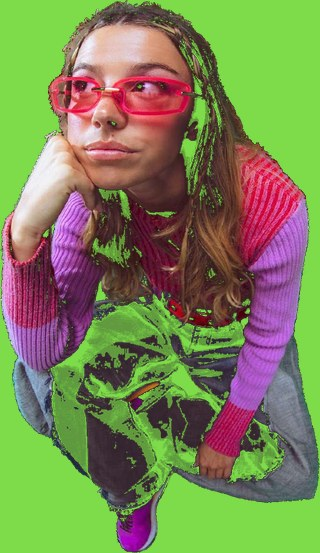
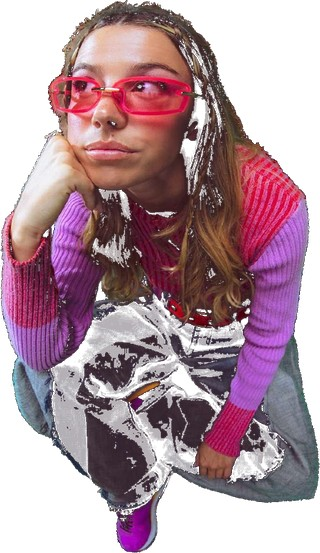
Use a white background for the braindump center photo
The green frame was showing through around the cutout. The center slot is now a white matte so a white-bg leopard photo sits cleanly.

diff --git a/static/site.css b/static/site.css
@@ -877,7 +877,7 @@ body:hover .cursor-glow { opacity: 1; }
   position: relative;
   justify-self: center;
   width: min(560px, 100%);
-  background: #7edc4a;
+  background: #ffffff;
   padding: 0.7rem 0.7rem 1.6rem;
   transform: rotate(2deg);
   box-shadow: 10px 14px 0 rgba(26, 8, 16, 0.18);
@@ -885,10 +885,10 @@ body:hover .cursor-glow { opacity: 1; }
 .brain-photo {
   width: 100%;
   display: block;
-  background: #7edc4a;
+  background: #ffffff;
   aspect-ratio: 3/4;
-  object-fit: cover;
-  object-position: center top;
+  object-fit: contain;
+  object-position: center center;
 }
 .brain-photo-wrap .sticker.fragile-tag {
   position: absolute; top: -18px; right: -22px; width: 108px;
